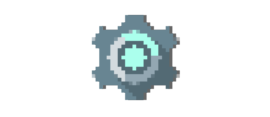
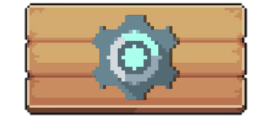
이미지 이동 및 info btn 이미지 변경
집 구매 모달 버튼도 꾸밈.
info 버튼 이미지 변경.
미니게임 닫기 버튼 hover, active 추가.

diff --git a/main.css b/main.css
@@ -32,7 +32,6 @@ body {
   display: none;
 }
 #box .animalBtn.visible {
-  /* display: block; */
   display: flex;
   justify-content: center;
   align-items: center;
@@ -67,14 +66,13 @@ header {
 }
 /* 제목이 정해졌을 때 변경이 필요한 곳. start 화면 포함. */
 header #main_title {
-
   font-family: 'NeoDunggeunmoPro-Regular';
   color: rgba(244, 252, 225, 0.952);
 
   font-size: 50px;
   text-shadow: 0px 5px 2px #073612;
 }
-header #demend {
+header #demend, #menu{
   width: 30%;
   height: 100%;
   background: none;
@@ -83,16 +81,7 @@ header #demend {
   padding: 0;
   position: relative;
 }
-header #menu {
-  width: 10%;
-  height: 100%;
-  background: none;
-  margin-right: 80px;
-  border: none;
-  cursor: pointer;
-  padding: 0;
-  position: relative;
-}
+
 header button:active {
   top: 2px;
 }
@@ -138,8 +127,8 @@ header #menu img {
   top: 30px;
   position: relative;
   padding: 0.5rem 1.5rem;
-  border: 1px solid #00329e;
-  background: #a5b7c6;
+  border: 2px inset #ffa53f;
+  background: #fff;
   color: rgb(0, 0, 0);
   border-radius: 6px;
   box-shadow: 0 1px 8px rgba(0, 0, 0, 0.26);
@@ -149,6 +138,13 @@ header #menu img {
   width: 200px;
   height: 100px;
   font-size: 30px;
+  font-family: "NeoDunggeunmoPro-Regular";
+}
+.demend-modal .modal__content .buy-btn:hover {
+  background: #dddddd;
+}
+.demend-modal .modal__content .buy-btn:active {
+  background: #8b8b8b;
 }
 .demend-modal .modal__actions {
   width: 450px;
@@ -157,14 +153,21 @@ header #menu img {
   position: relative;
   left: 300px;
   padding: 0.5rem 1.5rem;
-  border: 1px solid #00329e;
-  background: #328cd6;
+  border: 2px outset #00329e;
+  background: #ffffff;
   color: rgb(0, 0, 0);
   border-radius: 6px;
   box-shadow: 0 1px 8px rgba(0, 0, 0, 0.26);
   cursor: pointer;
   cursor: url('./image_main/mouse_cursor/one-finger.png'), auto;
   margin: 0 0.5rem;
+  font-family: "NeoDunggeunmoPro-Regular";
+}
+.demend-modal .modal__actions .out-btn:hover{
+  background: #dddddd;
+}
+.demend-modal .modal__actions .out-btn:active{
+  background: #8b8b8b;
 }
 .demend-modal .modal__content .forBorder {
   width: 200px;
@@ -578,7 +581,7 @@ header #menu img {
   position: absolute;
   font: inherit;
   padding: 0.5rem 1.5rem;
-  border: 1px solid #00329e;
+  border: 2px outset #427eff;
   background: #00329e;
   color: white;
   border-radius: 6px;
@@ -588,6 +591,12 @@ header #menu img {
   margin: 0 0.5rem;
   right: 5px;
   bottom: 10px;
+}
+.game-container .game_modal__actions .out-btn:hover {
+  background: #010caf;
+}
+.game-container .game_modal__actions .out-btn:active {
+  background: #00065e;
 }
 .slot-Machine {
   padding-left: 50px;

diff --git a/main.html b/main.html
@@ -213,7 +213,7 @@
           </button>
           <h1 id="main_title">title</h1>
           <button id="menu">
-            <img src="./image_main/bag.png" alt="menu" />
+            <img src="./image_main/info_btn.png" alt="menu" />
           </button>
         </header>
         <!-- 현재 자산 및 현재 보유 코인 -->
